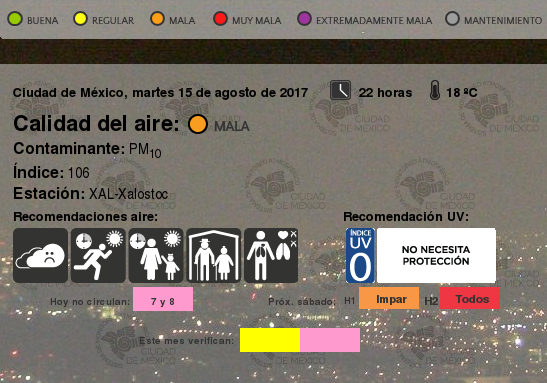
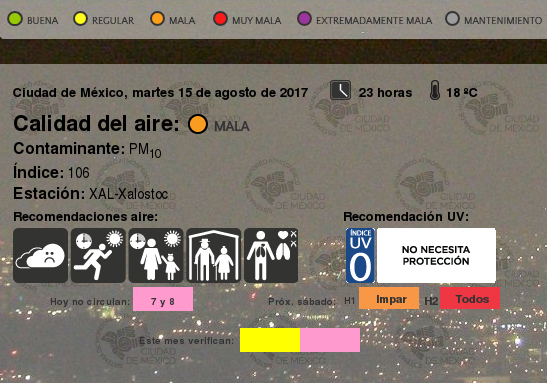
update images 15-08-2017 23:20

diff --git a/README.md b/README.md
@@ -12417,3 +12417,4 @@
 |15-08-2017 22:50
 |15-08-2017 23:03
 |15-08-2017 23:11
+|15-08-2017 23:20
